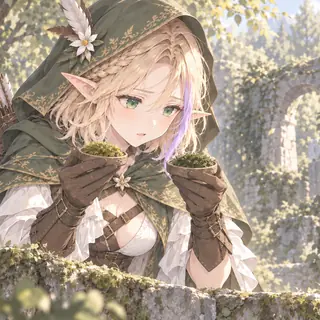
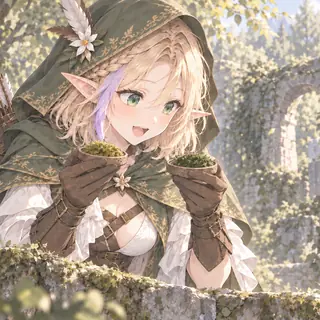
Correct Aria lavender lock and brighten moss comparison expression

diff --git a/docs/art/story-art.md b/docs/art/story-art.md
@@ -73,7 +73,7 @@
 
 ## 第一章1-6
 
-森の湿地背景は組み込み `image_gen` で制作。苔を比較するスチルは2026-09-15のユーザー提供画像をもとに、2026-10-05に最新のアリア設定画へ合わせて描き直した。肩〜鎖骨丈の毛量を抑えた金髪と花飾りの反対側の淡い紫の一房を反映し、フードをかぶって二つの器を顔へ近づける動作、木漏れ日と石壁、苔を見比べる表情を維持する。苔の同一性を断定する発光演出は追加しない。背景は [1-6の制作記録](../art-generation/stage-1-6-art.json)、以前の採用画像は [制作履歴](../art-generation/stage-1-6-closeup-art.json)、今回の更新は [更新記録](../art-generation/forest-moss-refresh-20261005.json) を参照。
+森の湿地背景は組み込み `image_gen` で制作。苔を比較するスチルは2026-09-15のユーザー提供画像をもとに、2026-10-05に最新のアリア設定画へ合わせて描き直した。肩〜鎖骨丈の毛量を抑えた金髪と、ユーザー修正に従った画面左側の淡い紫の一房を反映し、フードをかぶって二つの器を顔へ近づける動作、木漏れ日と石壁、苔を見比べる場面を維持し、目を明るく開いた元気な笑顔へ修正する。苔の同一性を断定する発光演出は追加しない。背景は [1-6の制作記録](../art-generation/stage-1-6-art.json)、以前の採用画像は [制作履歴](../art-generation/stage-1-6-closeup-art.json)、今回の更新は [更新記録](../art-generation/forest-moss-refresh-20261005.json) を参照。
 
 - `assets/source/scenery/forest-wetland.png`：1-6の一覧・冒険背景。午後の木陰、湿った石と根、浅い水辺、人物が歩く地面を描く。塔や光る苔は置かない。
 - `public/stories/forest-moss-aria.webp`：`forest-wetland-return` の0起点5行目、アリアが二つの入れ物を顔の近くまで持ち上げて見比べる動作から表示。読了後はアルバムで鑑賞できる。

diff --git a/docs/art/story-art-gallery.md b/docs/art/story-art-gallery.md
@@ -47,7 +47,7 @@
 
 ## 同じかもしれない
 
-第一章1-6。2026-10-05に最新設定画のアリアへ更新。木漏れ日と苔むした石壁を背景に、フードをかぶったアリアが両手の器を顔の近くまで持ち上げて二つの苔を見比べる。短い金髪と紫の一房を反映し、構図と表情を維持した。持ち上げる行から表示し、まだ同種とも塔の不調の原因とも断定しない。[背景の制作記録](../art-generation/stage-1-6-art.json) と [更新記録](../art-generation/forest-moss-refresh-20261005.json) を参照。
+第一章1-6。2026-10-05に最新設定画のアリアへ更新。木漏れ日と苔むした石壁を背景に、フードをかぶったアリアが両手の器を顔の近くまで持ち上げて二つの苔を見比べる。短い金髪と画面左側の紫の一房を反映し、構図を保って元気な笑顔へ修正した。持ち上げる行から表示し、まだ同種とも塔の不調の原因とも断定しない。[背景の制作記録](../art-generation/stage-1-6-art.json) と [更新記録](../art-generation/forest-moss-refresh-20261005.json) を参照。
 
 ![木漏れ日が差す苔むした石壁の前で、二つの苔を顔の近くへ持ち上げて見比べるアリア。](../../public/stories/forest-moss-aria.webp)
 
